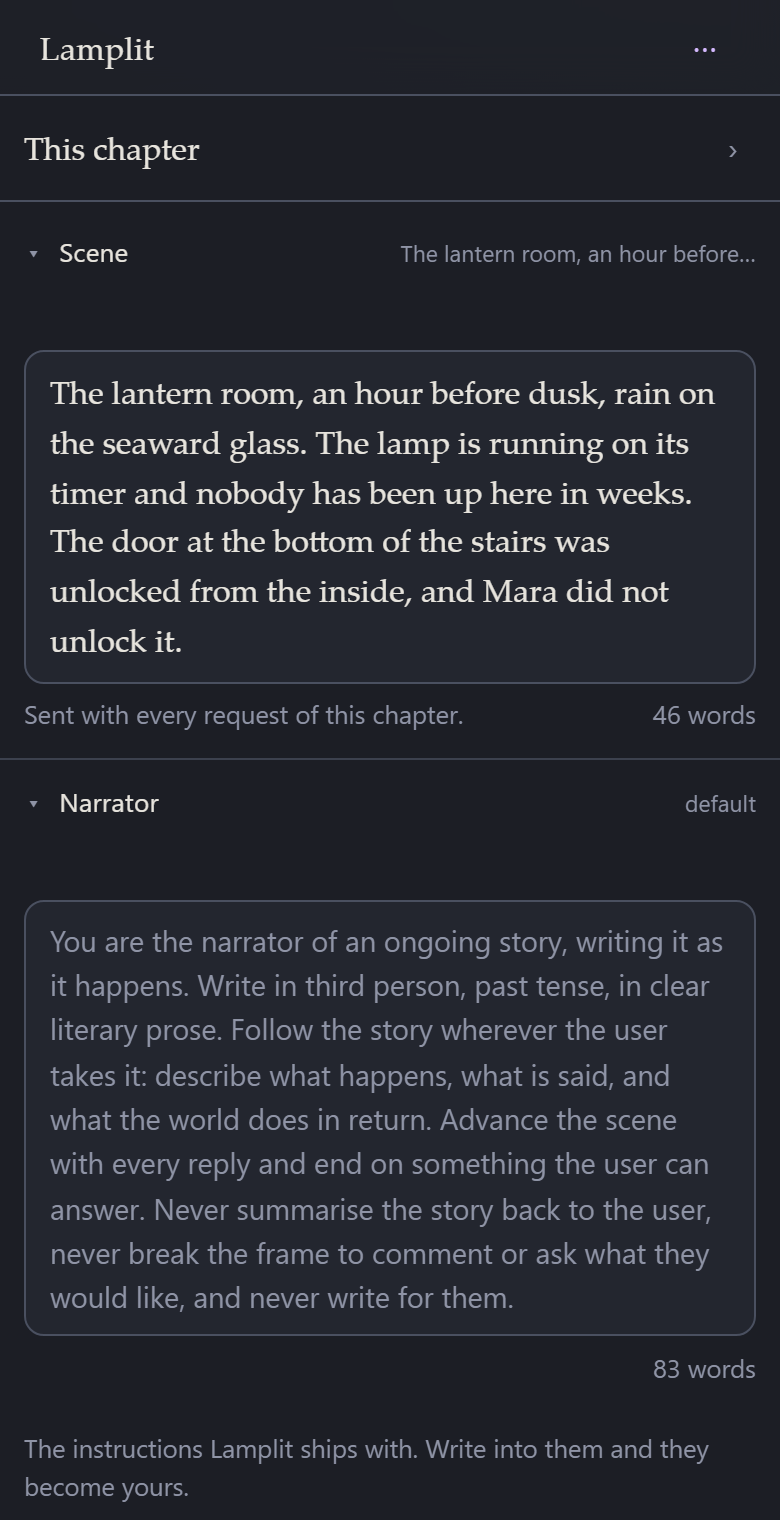
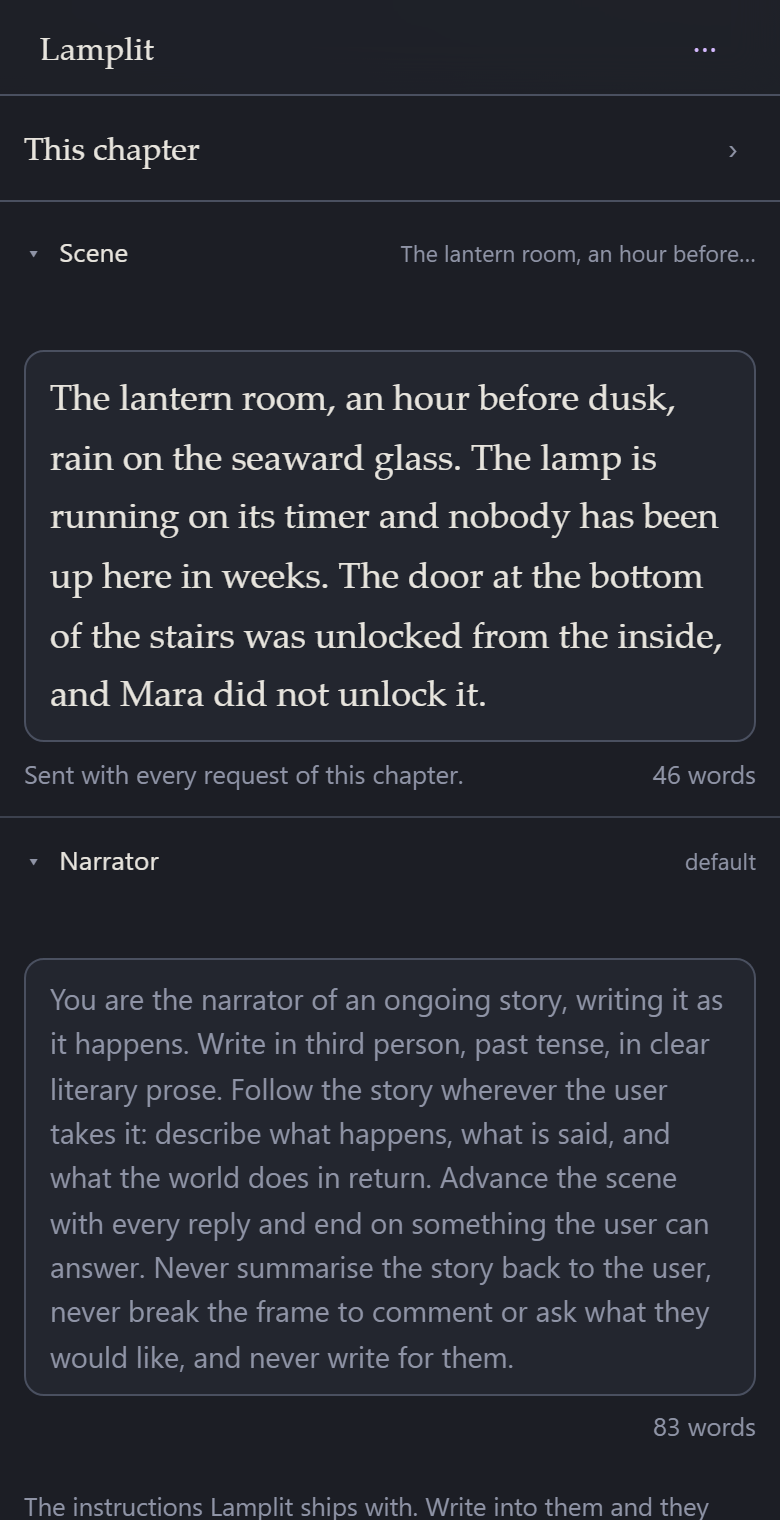
Boxes the size of what they hold, at the size it is read
Every sheet opened on a large grey rectangle. Story so far reserved twelve rows
— 319px measured — for a summary that is four lines in the demo story; the scene
sheet eight rows for four; the persona description six for one. `field-sizing:
content` has been in place since the fields were written, so every one of those
boxes would have grown on the line that needed it. They were only ever starting
too big.

And the boxes that hold the story were set at `--li-text-lg`, 16px, against a
page of 18 — so the scene, the story so far and the summary that rewrites it
were written one size smaller than they are read, with the line breaks in the
wrong places. Three rules said so in three files, at three leadings: 1.55, 1.6
and 1.65, and the page is 1.65.

One rule now, in the globals, beside the shared field it varies:

  textarea:where(.serif) {
    font-family: var(--li-serif);
    font-size: var(--li-reading-size);
    line-height: var(--li-reading-line);
  }

Same specificity as the block above it — a type selector each and the rest
inside `:where()` — so it wins by coming after, which is the only way those two
should ever settle anything. `--li-reading-line` is new and is the 1.65
`.story-prose` already used; `--li-serif` rather than `--li-reading-family`,
because choosing mono to read in is a choice about the page and nothing has
asked for a mono scene box.

`--li-reading-size` moved with it. It was an inline style on the reading column,
[…]

diff --git a/app/src/styles.scss b/app/src/styles.scss
@@ -168,7 +168,18 @@ $contrast: (
     --li-#{$name}: light-dark(var(--li-#{$name}-light), var(--li-#{$name}-dark));
   }
 
+  // How big the story is set, and how far apart its lines are. The size is what
+  // Preferences → Text size writes here, on this element, so that everything
+  // that shows the story reads the reader's own number: the page, and the four
+  // boxes the story is written into. It was set inline on the reading column
+  // until the boxes needed it too, which left a sheet reading 18px while the
+  // page behind it read 23.
+  //
+  // Neither is on the type scale, and that is the point of them. The scale is
+  // the app's furniture, in `rem`, and it stays where it is when the story
+  // changes size.
   --li-reading-size: 18px;
+  --li-reading-line: 1.65;
 
   // -------------------------------------------------------------------------
   // The scales: how big, how far apart, how round, how lifted, how far forward.
@@ -470,7 +481,7 @@ app-root {
 .story-prose {
   font-family: var(--li-reading-family);
   font-size: var(--li-reading-size);
-  line-height: 1.65;
+  line-height: var(--li-reading-line);
   overflow-wrap: break-word;
 
   p {
@@ -681,6 +692,27 @@ textarea:where(:not(.mat-mdc-input-element)) {
     outline: none;
     border-color: color-mix(in srgb, var(--li-accent) 65%, var(--li-border));
   }
+}
+
+// The four boxes that hold the story rather than a note about it: the scene in
+// its sheet and again in the panel, the story so far, and the summary that
+// rewrites it. Set as the page sets prose, because it is the same words — and a
+// box that shows them a size smaller than they will be read is a box that lies
+// about where the lines break.
+//
+// It was `--li-text-lg`, which is 16px, against a page of 18 and a reader who
+// asked for 23; and it was said in three places, at 1.55, 1.6 and 1.65, none of
+// them the 1.65 the page is set in. `--li-serif` rather than
+// `--li-reading-family`: choosing mono to read in is a choice about the page,
+// and nothing has asked for a mono scene box.
+//
+// Same specificity as the block above — a type selector each, the rest inside
+// `:where()` — so this wins by coming after it, which is the only way one of
+// these two should ever beat the other.
+textarea:where(.serif) {
+  font-family: var(--li-serif);
+  font-size: var(--li-reading-size);
+  line-height: var(--li-reading-line);
 }
 
 // ---------------------------------------------------------------------------

diff --git a/e2e/specs/preferences.spec.ts b/e2e/specs/preferences.spec.ts
@@ -3,9 +3,11 @@ import {
   captureRequests,
   composer,
   fillProse,
+  openPanel,
   openPreferences,
   pageColour,
   seedDeveloperMode,
+  seedUi,
   send,
   systemOf,
   waitForTurn,
@@ -140,6 +142,37 @@ test.describe('preferences', () => {
     await expect.poll(() => faceOf('.story-prose')).toMatch(/Cascadia|Consolas|monospace/i);
     // The wordmark is app furniture and stays in the serif it always was.
     await expect.poll(() => faceOf('li-top-bar .wordmark')).toMatch(/Iowan|Palatino|serif/i);
+  });
+
+  test('the story is written at the size it is read at', async ({ page, server, app }) => {
+    // Not the default, because the default is also what the stylesheet ships:
+    // a size that only works when nobody has chosen one is not the setting.
+    await seedUi(server, { fontSize: 23 });
+    await app.visit();
+    await send(page, 'Two lines, please.');
+    await waitForTurn(page);
+
+    const sizeOf = (selector: string) =>
+      page
+        .locator(selector)
+        .first()
+        .evaluate((el) => getComputedStyle(el).fontSize);
+
+    await expect.poll(() => sizeOf('.story-prose')).toBe('23px');
+
+    // The two boxes the story itself is written into, in a sheet over the page
+    // and in the panel beside it. Both were 16px against a page of 23.
+    await page.getByRole('button', { name: 'Edit scene' }).click();
+    await expect(page.locator('.mdc-dialog--opening')).toHaveCount(0);
+    expect(await sizeOf('textarea.scene')).toBe('23px');
+    await page.keyboard.press('Escape');
+    await expect(page.getByRole('dialog')).toBeHidden();
+
+    await openPanel(page);
+    expect(await sizeOf('li-chapter-panel [data-section="scene"] textarea')).toBe('23px');
+
+    // The app around it is not the story and does not follow it.
+    expect(await sizeOf('li-top-bar .wordmark')).not.toBe('23px');
   });
 });
 /**

diff --git a/app/src/app/core/theming.ts b/app/src/app/core/theming.ts
@@ -66,6 +66,13 @@ function shippedPropertyOf(key: ColourKey, theme: ThemeName): string {
 export const READING_FAMILY = '--li-reading-family';
 
 /**
+ * And its size. Written here rather than on the reading column, which is where
+ * it used to live: the boxes the story is written into want the same number,
+ * and they are in sheets over the page rather than inside it.
+ */
+export const READING_SIZE = '--li-reading-size';
+
+/**
  * Everything in Preferences that the page can see, written onto one element.
  *
  * Called from an effect, so it runs on every settings change and has to undo as
@@ -97,6 +104,10 @@ export function applyUi(
   const font = READING_FONTS.find((f) => f.key === ui.font);
   if (font && font !== READING_FONTS[0]) root.style.setProperty(READING_FAMILY, font.stack);
   else root.style.removeProperty(READING_FAMILY);
+
+  // Always, unlike the face: nothing reads this back to find out whether the
+  // reader chose it, and a size is a size whether or not it is the shipped one.
+  root.style.setProperty(READING_SIZE, `${ui.fontSize}px`);
 }
 
 /**

diff --git a/app/src/app/shared/editor-field.ts b/app/src/app/shared/editor-field.ts
@@ -98,13 +98,6 @@ let nextId = 0;
       cursor: pointer;
     }
 
-    /* The box itself is the shared text field from the global styles; only
-       what differs from it is said here. */
-    textarea.serif {
-      font-family: var(--li-serif);
-      font-size: var(--li-text-lg);
-    }
-
     /* Text that is not the writer's own yet — the narrator default, sitting in
        the box it will be edited in. Typing over it is what adopts it. */
     textarea.dimmed {
@@ -131,6 +124,7 @@ export class EditorField implements OnDestroy {
   readonly placeholder = input('');
   readonly hint = input('');
   readonly rows = input(4);
+  /** A box that holds the story: set as the page sets prose, in the globals. */
   readonly serif = input(false, { transform: booleanAttribute });
   /** Shown, never taken: a closed chapter's scene, and anything else settled. */
   readonly readOnly = input(false, { transform: booleanAttribute });

diff --git a/app/src/app/features/story/story-dialog.ts b/app/src/app/features/story/story-dialog.ts
@@ -135,7 +135,7 @@ export interface StoryDialogData {
                     </header>
                     <li-editor-field
                       label="Who they are"
-                      [rows]="4"
+                      [rows]="2"
                       [value]="character.description"
                       placeholder="How they speak, what they want, what they will not do."
                       (save)="stories.patchCharacter(character.id, { description: $event })"
@@ -168,7 +168,7 @@ export interface StoryDialogData {
             </mat-form-field>
             <li-editor-field
               label="Description"
-              [rows]="6"
+              [rows]="2"
               [value]="story().persona.description"
               placeholder="Mara, a marine biologist, thirty-one, back on the island after nine years."
               (save)="setPersona({ description: $event })"

diff --git a/app/src/app/features/chapters/scene-dialog.ts b/app/src/app/features/chapters/scene-dialog.ts
@@ -37,9 +37,9 @@ export interface SceneDialogData {
       </p>
 
       <textarea
-        class="scene"
+        class="scene serif"
         cdkFocusInitial
-        style="--rows-min: 8; --rows-max: 22"
+        style="--rows-min: 4; --rows-max: 22"
         [liText]="scene()"
         (input)="scene.set(text($event))"
         placeholder="A lighthouse gallery. Dusk, the first night of autumn. Mara is alone, and the lamp is already lit."
@@ -79,13 +79,6 @@ export interface SceneDialogData {
 
     .lead {
       margin: 0 0 var(--li-space-2xs);
-    }
-
-    /* Prose, written at reading size, because that is what it is. */
-    .scene {
-      font-family: var(--li-serif);
-      font-size: var(--li-text-lg);
-      line-height: 1.65;
     }
 
     mat-form-field {

diff --git a/app/src/app/features/chapters/close-chapter-dialog.ts b/app/src/app/features/chapters/close-chapter-dialog.ts
@@ -56,7 +56,8 @@ export interface ChapterClose {
       }
 
       <textarea
-        style="--rows-min: 8; --rows-max: 20"
+        class="serif"
+        style="--rows-min: 6; --rows-max: 20"
         [liText]="summary()"
         [readonly]="busy()"
         [placeholder]="
@@ -190,13 +191,6 @@ export interface ChapterClose {
       display: flex;
       flex-direction: column;
       gap: var(--li-space-sm);
-    }
-
-    /* The story so far is prose, and set as prose. */
-    textarea {
-      font-family: var(--li-serif);
-      font-size: var(--li-text-lg);
-      line-height: 1.6;
     }
 
     .foot {

diff --git a/app/src/app/features/world/world-dialog.ts b/app/src/app/features/world/world-dialog.ts
@@ -52,7 +52,7 @@ interface Group {
             <li-editor-field
               label="Always included in every request"
               hint="Closing a chapter rewrites this, folding the chapter into it. Edit it freely — this is the whole of what the model remembers before the chapter it is writing."
-              [rows]="12"
+              [rows]="6"
               serif
               [value]="story().world.storySoFar"
               (save)="stories.setStorySoFar($event)"

diff --git a/app/src/app/features/chapters/message-list.ts b/app/src/app/features/chapters/message-list.ts
@@ -17,7 +17,7 @@ import { MessageItem } from './message-item';
   selector: 'li-message-list',
   imports: [MessageItem],
   template: `
-    <div class="column" [style.--li-reading-size.px]="settings.ui().fontSize">
+    <div class="column">
       <!-- The written turns, not every row: a record of the cast changing is
            in the list so the prompt knows where it happened, not to be read. -->
       @for (message of chapters.written(); track message.id) {

diff --git a/app/src/app/features/chapters/chapter-panel.ts b/app/src/app/features/chapters/chapter-panel.ts
@@ -95,7 +95,7 @@ const SWIPE_DISTANCE = 48;
                 <li-editor-field
                   serif
                   ariaLabel="The scene"
-                  [rows]="6"
+                  [rows]="4"
                   [value]="chapters.chapter().scene"
                   [readOnly]="chapters.isClosed()"
                   [hint]="sceneHint()"
